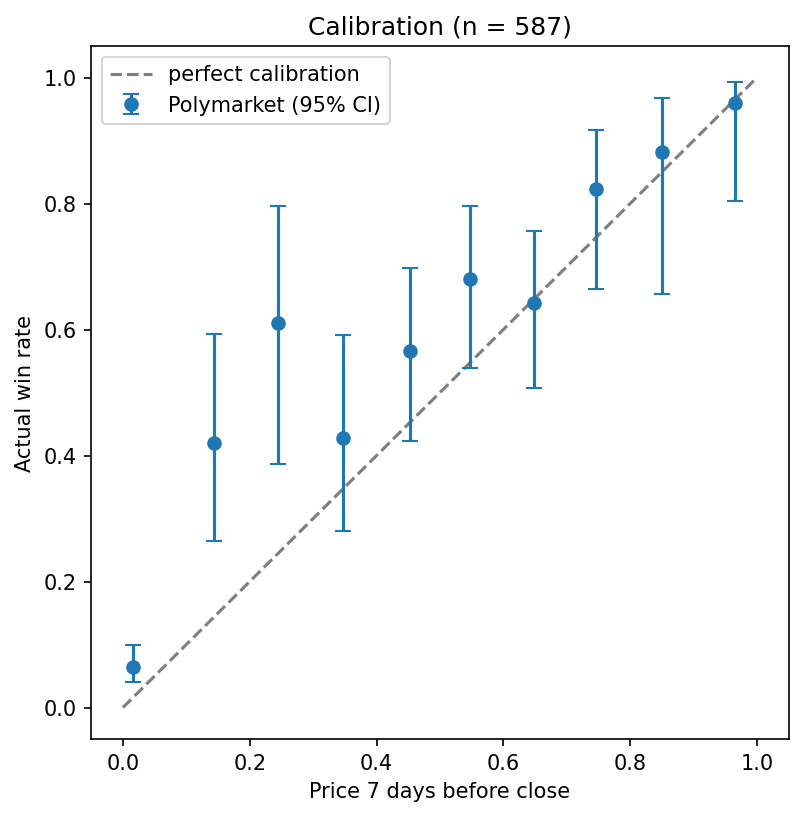
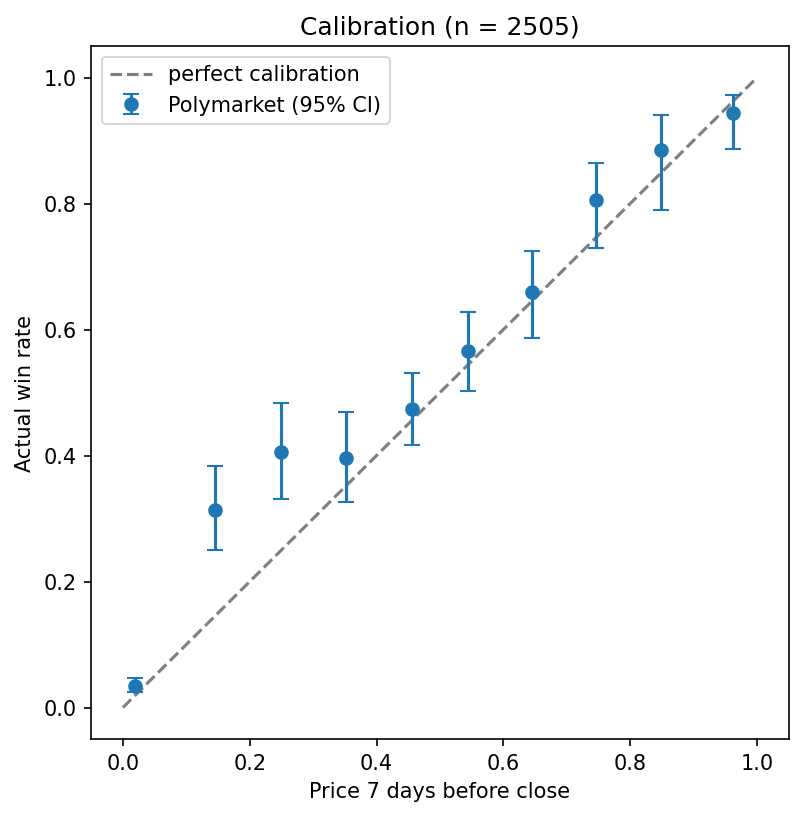
going through the third stage

diff --git a/pipeline/load_raw.py b/pipeline/load_raw.py
@@ -1,16 +1,22 @@
 import json
 import time
+import requests
+import sys
 
 from pipeline.api import fetch_closed_markets, fetch_price_history
-from pipeline.api import fetch_closed_markets
 from pipeline.db import connect
 
-def load_markets(pages=20, page_size=100):
+def load_markets(max_volume=None, pages=20, page_size=100):
     conn = connect()
     cursor = conn.cursor()
+    if max_volume is None:
+        max_volume = cursor.execute(
+            "SELECT MIN(TRY_CAST(JSON_VALUE(payload, '$.volumeNum') AS FLOAT)) FROM raw.markets"
+        ).fetchval()
+    print("loading markets below volume", max_volume)
     total = 0
     for page in range(pages):
-        markets = fetch_closed_markets(limit=page_size, offset=page * page_size)
+        markets = fetch_closed_markets(limit=page_size, offset=page * page_size, max_volume=max_volume)
         if not markets:
             break
         cursor.executemany(
@@ -32,6 +38,7 @@ def load_price_histories():
         "SELECT DISTINCT market_id, JSON_VALUE(payload, '$.clobTokenIds') "
         "FROM raw.markets "
         "WHERE JSON_VALUE(payload, '$.clobTokenIds') IS NOT NULL "
+        "AND JSON_VALUE(JSON_VALUE(payload, '$.outcomes'), '$[0]') = 'Yes' "
         "AND market_id NOT IN (SELECT market_id FROM raw.price_history)"
     ).fetchall()
 
@@ -39,7 +46,7 @@ def load_price_histories():
         yes_token = json.loads(token_ids)[0]
         try:
             history = fetch_price_history(yes_token)
-        except requests.HTTPError as e:
+        except requests.RequestException as e:
             print(f"skipped {market_id}: {e}")
             continue
         cursor.execute(
@@ -56,5 +63,6 @@ def load_price_histories():
 
 
 if __name__ == "__main__":
-    print(load_markets(), "markets loaded")
+    max_volume = float(sys.argv[1]) if len(sys.argv) > 1 else None
+    print(load_markets(max_volume), "markets loaded")
     print(load_price_histories(), "price histories loaded")

diff --git a/analysis/calibration.py b/analysis/calibration.py
@@ -2,7 +2,7 @@ import pandas as pd
 from scipy.stats import binomtest
 from pipeline.db import connect
 
-QUERY = "SELECT yes_price, yes_won FROM mart.calibration_sample"
+QUERY = "SELECT yes_price, yes_won, volume_usd FROM mart.calibration_sample"
 
 
 def load_sample():
@@ -11,7 +11,7 @@ def load_sample():
     cur.execute(QUERY)
     rows = [tuple(r) for r in cur.fetchall()]
     conn.close()
-    return pd.DataFrame(rows, columns=["yes_price", "yes_won"]).astype(float)
+    return pd.DataFrame(rows, columns=["yes_price", "yes_won", "volume_usd"]).astype(float)
 
 
 def bucket_table(df):
@@ -44,8 +44,29 @@ def plot(table, path="analysis/calibration.png"):
     fig.savefig(path, dpi=150, bbox_inches="tight")
     print("saved", path)
 
+TIERS = [0, 100_000, 1_000_000, float("inf")]
+LABELS = ["<100k", "100k-1M", ">1M"]
+
+
+def cheap_by_tier(df):
+    cheap = df[df["yes_price"] < 0.3].copy()
+    cheap["tier"] = pd.cut(cheap["volume_usd"], TIERS, labels=LABELS, right=False)
+    rows = []
+    for tier, g in cheap.groupby("tier", observed=True):
+        n = len(g)
+        wins = int(g["yes_won"].sum())
+        price = g["yes_price"].mean()
+        test = binomtest(wins, n, price)
+        ci = test.proportion_ci(method="wilson")
+        rows.append({"tier": tier, "n": n, "avg_price": price,
+                     "win_rate": wins / n, "ci_low": ci.low,
+                     "ci_high": ci.high, "p_value": test.pvalue})
+    return pd.DataFrame(rows)
+
 
 if __name__ == "__main__":
     table = bucket_table(load_sample())
     print(table.round(3).to_string(index=False))
     plot(table)
+    print()
+    print(cheap_by_tier(load_sample()).round(3).to_string(index=False))

diff --git a/pipeline/api.py b/pipeline/api.py
@@ -4,8 +4,10 @@ import json
 GAMMA_URL = "https://gamma-api.polymarket.com"
 CLOB_URL = "https://clob.polymarket.com" 
 
-def fetch_closed_markets(limit=100, offset=0):
+def fetch_closed_markets(limit=100, offset=0, max_volume=None):
     params = {"closed": "true", "limit": limit, "offset": offset, "order": "volumeNum", "ascending": "false"}
+    if max_volume is not None:
+        params["volume_num_max"] = max_volume
     resp = requests.get(f"{GAMMA_URL}/markets", params=params, timeout=30)
     resp.raise_for_status()
     return resp.json()
